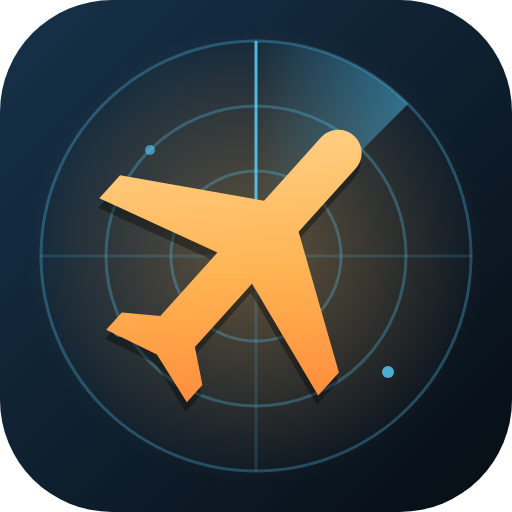
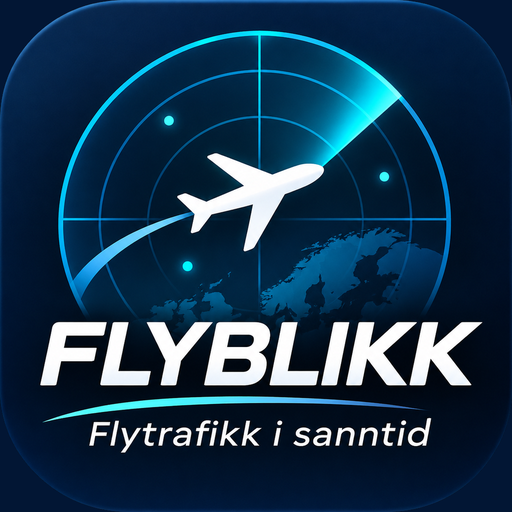
Ny appikon (Flyblikk)
Claude-Session: https://claude.ai/code/session_01WEdTZg4muSH9YHL3JqKyfy

diff --git a/index.html b/index.html
@@ -5,9 +5,9 @@
 <meta name="viewport" content="width=device-width, initial-scale=1, viewport-fit=cover">
 <title>Flyradar by steinar</title>
 <link rel="manifest" href="manifest.webmanifest">
-<link rel="icon" type="image/svg+xml" href="icon.svg">
-<link rel="icon" type="image/png" sizes="192x192" href="icon-192.png">
-<link rel="apple-touch-icon" href="apple-touch-icon.png">
+<link rel="icon" type="image/png" sizes="512x512" href="icon-512.png?v=2">
+<link rel="icon" type="image/png" sizes="192x192" href="icon-192.png?v=2">
+<link rel="apple-touch-icon" href="apple-touch-icon.png?v=2">
 <meta name="theme-color" content="#0a1017">
 <meta name="mobile-web-app-capable" content="yes">
 <meta name="apple-mobile-web-app-capable" content="yes">
